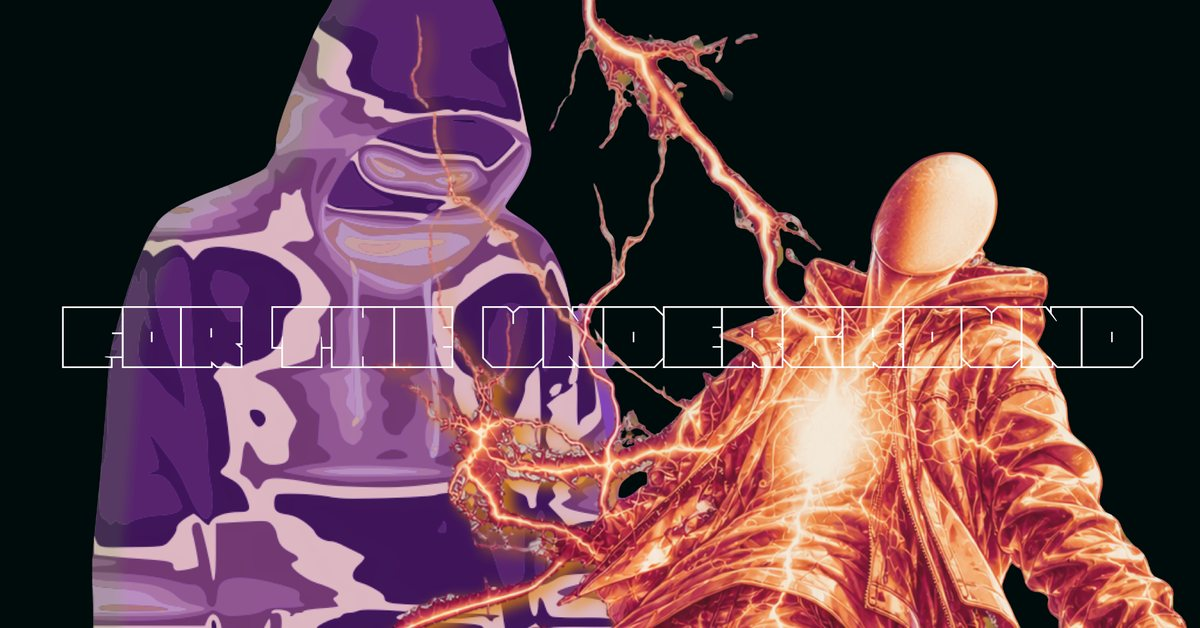
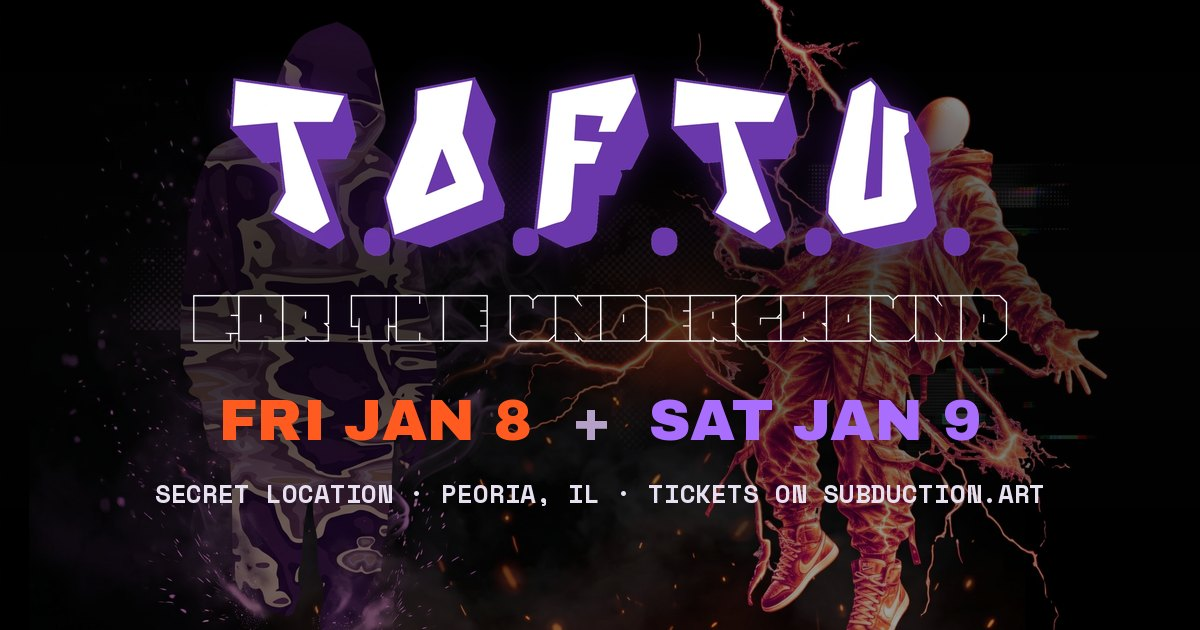
Share cover for texts and socials, /underground serves the page directly, orange figure under Fri
Claude-Session: https://claude.ai/code/session_01JL6pXUCVczKg2obcUSGDZQ

diff --git a/site/tickets.html b/site/tickets.html
@@ -6,16 +6,25 @@
 <link rel="icon" type="image/png" href="assets/favicon.png">
 <link rel="apple-touch-icon" href="assets/apple-touch.png">
 <meta property="og:type" content="website">
-<meta property="og:title" content="T.O.F.T.U. · This One Is For The Underground · Jan 8 + 9 · Secret location, Peoria IL">
-<meta property="og:description" content="Fri: Treegaud b2b Waylo + Badguy Moolah. Sat: PATCHES + Cache Stack. Tickets here.">
+<meta property="og:site_name" content="T.O.F.T.U.">
+<meta property="og:url" content="https://subduction.art/underground/">
+<meta property="og:title" content="T.O.F.T.U. · For The Underground · Jan 8 + 9 · Peoria, IL">
+<meta property="og:description" content="Fri: Treegaud b2b Waylo, Badguy Moolah + more. Sat: PATCHES, Cache Stack + more. Secret location. Get tickets.">
 <meta property="og:image" content="https://subduction.art/assets/toftu/share.jpg">
+<meta property="og:image:width" content="1200"><meta property="og:image:height" content="630">
+<meta property="og:image:alt" content="T.O.F.T.U. For The Underground, Fri Jan 8 + Sat Jan 9, secret location, Peoria IL">
 <meta name="twitter:card" content="summary_large_image">
+<meta name="twitter:title" content="T.O.F.T.U. · For The Underground · Jan 8 + 9 · Peoria, IL">
+<meta name="twitter:description" content="Fri: Treegaud b2b Waylo, Badguy Moolah + more. Sat: PATCHES, Cache Stack + more. Secret location.">
+<meta name="twitter:image" content="https://subduction.art/assets/toftu/share.jpg">
+<meta name="description" content="T.O.F.T.U. For The Underground: two nights of bass, Jan 8 + 9, secret location in Peoria, IL. Tickets here.">
+<meta name="theme-color" content="#050505">
 <link rel="preconnect" href="https://fonts.googleapis.com"><link rel="preconnect" href="https://fonts.gstatic.com" crossorigin>
 <link href="https://fonts.googleapis.com/css2?family=Anton&family=Archivo+Black&family=Archivo:wght@400;500;600&family=Space+Mono:wght@400;700&display=swap" rel="stylesheet">
 <link rel="stylesheet" href="assets/app.css">
 <link rel="stylesheet" href="assets/tix.css">
 <!--CONFIG-->
-<title>Tickets</title>
+<title>T.O.F.T.U. · For The Underground · Tickets</title>
 </head>
 <body class="toftu">
 <main class="wrap tix toftu" id="page">

diff --git a/site/assets/tickets.js b/site/assets/tickets.js
@@ -30,9 +30,10 @@
     $("meta").innerHTML = ['<span class="pill">' + esc(ev.age || "Age TBA") + "</span>"]
       .concat(data.nights.map(function (n) { return '<span class="pill">' + esc(n.label) + "</span>"; })).join("");
     $("nights").innerHTML = data.nights.map(function (n, i) {
-      return '<div class="night' + (i % 2 ? " n2" : "") + '"><img class="eye" src="assets/toftu/eye-' + (i % 2 ? "sat" : "fri") + '.webp" alt="" width="240" height="240"><h3>' + esc(n.label) + "</h3>" +
+      return '<div class="nw">' + (i === 0 ? '<img class="char" src="assets/toftu/energy-orange.webp" alt="" width="520" height="849">' : "") +
+        '<div class="night' + (i % 2 ? " n2" : "") + '"><img class="eye" src="assets/toftu/eye-' + (i % 2 ? "sat" : "fri") + '.webp" alt="" width="240" height="240"><h3>' + esc(n.label) + "</h3>" +
         (n.starts_at ? '<div class="when">Doors ' + time(n.starts_at) + (n.ends_at ? " – " + time(n.ends_at) : "") + "</div>" : "") +
-        "<ul>" + (n.lineup || []).map(function (a) { return "<li>" + esc(a.name) + (a.note ? "<small>" + esc(a.note) + "</small>" : "") + "</li>"; }).join("") + "</ul></div>";
+        "<ul>" + (n.lineup || []).map(function (a) { return "<li>" + esc(a.name) + (a.note ? "<small>" + esc(a.note) + "</small>" : "") + "</li>"; }).join("") + "</ul></div></div>";
     }).join("");
     renderTypes();
     $("loading").hidden = true; $("ev").hidden = false;

diff --git a/site/assets/tix.css b/site/assets/tix.css
@@ -182,3 +182,9 @@ html:has(.toftu){background:#050505}
 .ftu-img img{width:100%;height:auto}
 .hero img{mask-image:linear-gradient(transparent,#000 14%,#000 75%,transparent);-webkit-mask-image:linear-gradient(transparent,#000 14%,#000 75%,transparent)}
 .toftu .tree{width:84px;opacity:.75;mix-blend-mode:normal}
+/* the orange energy figure under Fri, like the violet one under Sat */
+.nw{position:relative}
+.nw:nth-child(1){z-index:1} .nw:nth-child(2){z-index:2}
+.nw .char{position:absolute;right:-14px;bottom:-96px;width:118px;height:auto;z-index:3;pointer-events:none;filter:drop-shadow(0 0 22px rgba(255,90,31,.5))}
+.toftu .night{background-color:#050505}
+.nw:nth-child(1){z-index:3}
